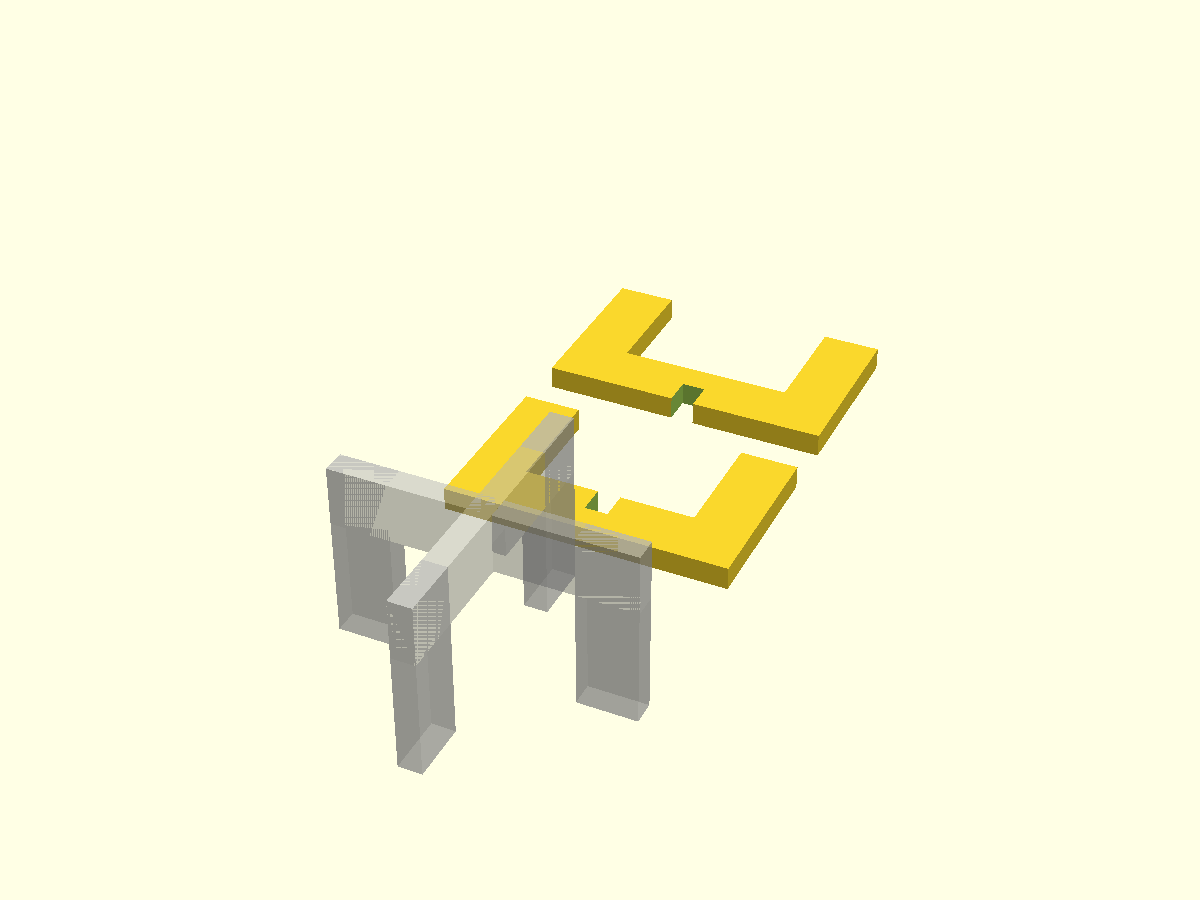
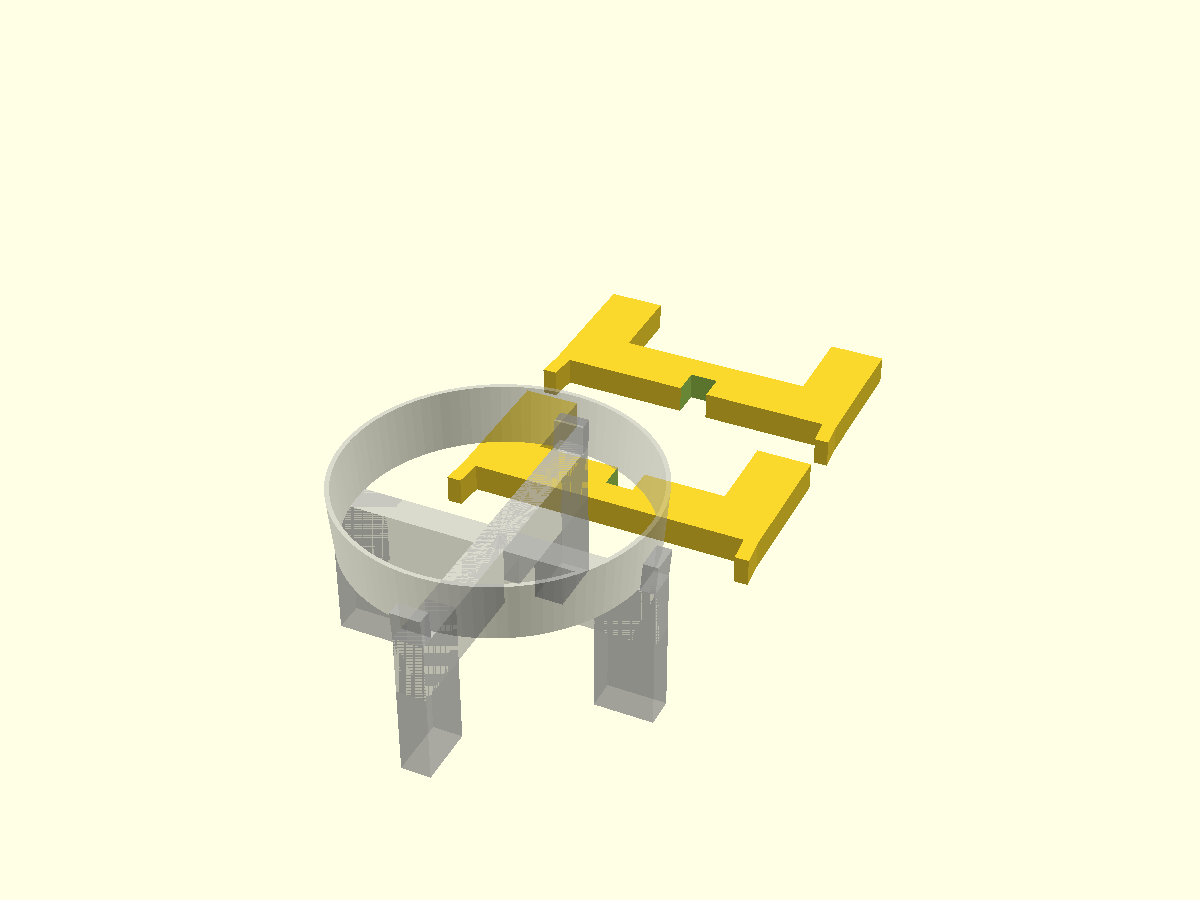
Pot (#5)
* docs(sync): map pot-stand support walls

* feat(frames): add pot supports to pot stand

Support walls rise from each bar end above the leg and lean outward
about the pot rim line, so a pot that widens toward the top rests
flush against them. The bar now extends one support width per side,
making the pot diameter the inner width between the walls. A
preview-only ghost pot shows how the angle cradles the pot.

* docs(memory): note stand-up orientation trap

* docs(memory): rewrite stale memory entries

Three entries described code that has since changed: the skadis
lattice parameter and default, the removed is_front() face test, and
a regression probe in the deleted .handoff directory. All remaining
entries were verified against the current drawings and kept.

Changed region(s): [[0.2467, 0.3111, 0.74, 0.84], [0.3392, 0.84, 0.37, 0.8711]]

diff --git a/docs/memory/INDEX.md b/docs/memory/INDEX.md
@@ -5,15 +5,15 @@
 | OpenSCAD drawing library project initialized | decision | high | openscad, 3d-printing, project-setup |  | archive/2026-08-07-openscad-library.md |
 | KISS principle for all solutions | decision | high | kiss, simplicity, architecture, adr |  | archive/2026-08-07-kiss-principle.md |
 | OpenSCAD identifiers cannot use hyphens | warning | high | openscad, syntax, identifiers |  | archive/2026-08-07-openscad-identifiers.md |
-| Skadis generator lattice pattern decision | decision | medium | openscad, skadis, lattice, 3d-printing, parametrization |  | archive/2026-08-29-skadis-lattice-web.md |
+| Skadis generator rib lattice: lattice_width, on by default | decision | medium | openscad, skadis, lattice, 3d-printing |  | archive/2026-09-26-skadis-lattice-width.md |
 | Fast preview workflow: $preview guard + FULL=1 render mode | pattern | high | openscad, preview, render-scripts, performance |  | archive/2026-08-29-fast-preview-workflow.md |
 | BOSL2 adopted for skadis-generator chamfers | decision | high | openscad, bosl2, chamfer, offset-sweep, performance |  | archive/2026-08-29-bosl2-chamfer-refactor.md |
 | chamfer_cylinder_mask only correct at 45 degrees | warning | medium | openscad, bosl2, chamfer, masks |  | archive/2026-08-29-chamfer-cylinder-mask-45deg.md |
 | Stackable box nesting fit: insert inset = recess inset - fit | pattern | medium | openscad, stacking, vase-mode, parametrization |  | archive/2026-09-03-stackable-box-nesting-fit.md |
-| Per-point wall displacement terms must be face-gated | warning | medium | openscad, displacement, skin, cgal, debugging |  | archive/2026-09-03-face-gated-displacement.md |
+| Displacement terms gate by face via paired point lists | pattern | medium | openscad, displacement, skin, normals |  | archive/2026-09-26-face-gated-displacement-pairs.md |
 | Vase-mode slide-in C-channel and resting ledge geometry | pattern | medium | openscad, vase-mode, c-channel, skin, parametrization |  | archive/2026-09-03-vase-mode-c-channel-ledge.md |
 | stackable-box lid is a snug lip-wrap cap; pocket auto-centering | decision | high | openscad, vase-mode, lid, pocket, parametrization |  | archive/2026-09-03-snug-lid-cap.md |
-| stackable-box corner notch: unit(p) is not the surface normal | warning | medium | openscad, displacement, normals, skin, stacking |  | archive/2026-09-04-corner-notch-unit-p-normal.md |
+| Deriving displacement normals from unit(p) cuts corner notches | warning | medium | openscad, displacement, normals, skin |  | archive/2026-09-26-paired-point-normals.md |
 | OpenSCAD Customizer annotation rules (2021.01 parser) | pattern | high | openscad, customizer, annotations, parametrization |  | archive/2026-09-08-customizer-description-rules.md |
 | Lofted constant-wall horns via skin 3D profiles | pattern | medium | openscad, bosl2, skin, loft, walls, parametrization |  | archive/2026-09-09-skin-3d-profiles-loft.md |
 | Preview ghosts of mating parts are preferred | preference | medium | openscad, preview, ghost, usability, parametrization |  | archive/2026-09-09-preview-ghost-parts.md |
@@ -23,3 +23,4 @@
 | Module braces, region booleans, chained offsets vs CGAL | warning | high | openscad, bosl2, modules, regions, cgal, offsets |  | archive/2026-09-13-openscad-cgal-footguns.md |
 | Continuous container cavity shrinks seat-band wall | decision | medium | openscad, container, cavity, neck, parametrization |  | archive/2026-09-15-continuous-cavity.md |
 | Builtin 45-degree chamfer cuts via exact-hypotenuse prisms | pattern | medium | openscad, chamfer, csg, print-quality |  | archive/2026-09-26-builtin-chamfer-cut.md |
+| Stand-up transforms: flat y=0 spine edge becomes the assembled top | pattern | medium | openscad, transforms, orientation, ghost, preview |  | archive/2026-09-26-stand-up-transform-orientation.md |

diff --git a/CHANGELOG.md b/CHANGELOG.md
@@ -1,5 +1,35 @@
 # Changelog
 
+## [0.10.1] - 2026-09-26
+
+- **why:** Keep the memory system truthful: three entries described code that has since changed
+- **model:** openrouter/z-ai/glm-5.3-flash
+- **tags:** memory, documentation, maintenance
+
+### Changed
+
+- Rewrote the skadis lattice entry: the web width parameter is now `lattice_width` and the lattice is on by default (`enable_lattice = true`), so the old "solid board default" and `Web_Lattice_Beam_Width` claims were false
+- Rewrote the face-gating entry: the `is_front(p)` test no longer exists; face gating now uses face-specific `[point, normal]` point lists
+- Rewrote the corner-notch entry: the referenced `.handoff/` regression probe no longer exists
+- The other 19 entries were verified against the current drawings and kept unchanged
+
+## [0.10.0] - 2026-09-26
+
+- **why:** Keep pots from sliding off the stand and show how the support angle cradles flared pots
+- **model:** openrouter/z-ai/glm-5.3-flash
+- **tags:** frames, pot-stand, pot-support, ghost-pot
+
+### Added
+
+- `support_height`, `support_angle`, and `support_width` parameters in a new `[Pot support]` Customizer group
+- `support_wall()` in `drawings/frames/pot-stand.scad`: a full-thickness wall on each bar end above the leg, leaning outward about the pot rim line so a pot with matching wall slope rests flush on it; both slot variants and the assembled ghost get all four walls
+- `ghost_pot()` preview aid: translucent flared pot resting in the support walls, rising `ghost_pot_extra` (20 mm) above them; excluded from renders and STL exports
+
+### Changed
+
+- `bar_length` is now `pot_diameter + 2 * support_width`, so the pot diameter is the inner width between the support walls
+- Regenerated `previews/frames/pot-stand.png`
+
 ## [0.9.0] - 2026-09-26
 
 - **why:** Show how the two trivet halves fit together and make the drawing easy to tune in the Customizer

diff --git a/docs/memory/archive/2026-09-26-skadis-lattice-width.md b/docs/memory/archive/2026-09-26-skadis-lattice-width.md
@@ -1,0 +1,19 @@
+---
+topic: "Skadis generator rib lattice: lattice_width, on by default"
+importance: medium
+category: decision
+tags: [openscad, skadis, lattice, 3d-printing]
+created: 2026-09-26T23:52:49Z
+model: z-ai/glm-5.3-flash
+---
+
+The skadis-generator board is cut to a rib lattice by default
+(`enable_lattice = true`): border, X spokes, vertical rails, and a
+material ring around every slot; `false` gives a solid board.
+Rectangular ribs beat hexagonal cells because continuous ribs resist
+out-of-plane bending from hung tools. The uniform web width is
+`lattice_width` (the old `Web_Lattice_Beam_Width` name is gone). The
+top-face bevel `lattice_chamfer_depth` erodes the web sideways, so
+asserts keep it below `lattice_width / 2` minus a minimum top-face
+sliver; thinner slivers make CGAL fail intermittently and do not
+print.

diff --git a/docs/memory/archive/2026-09-26-paired-point-normals.md b/docs/memory/archive/2026-09-26-paired-point-normals.md
@@ -1,0 +1,18 @@
+---
+topic: "Deriving displacement normals from unit(p) cuts corner notches"
+importance: medium
+category: warning
+tags: [openscad, displacement, normals, skin]
+created: 2026-09-26T23:52:49Z
+model: z-ai/glm-5.3-flash
+---
+
+In stackable-box.scad, deriving displacement normals from point
+position (unit(p), direction from the origin) cut a ~0.22 mm notch
+where the corner arcs meet the front wall: stacking inset stepped at
+top/bottom and the pattern wave creased vertically. Fix: pair every
+point with its true outward normal at construction time ([point,
+normal] lists; arcs radial from their own centers, walls
+axis-aligned, pocket [0, -1]) and expose the pairs via outline_raw(z)
+for testing. Never derive normals from origin distance on off-center
+rounded rects.

diff --git a/docs/memory/archive/2026-09-26-face-gated-displacement-pairs.md b/docs/memory/archive/2026-09-26-face-gated-displacement-pairs.md
@@ -1,0 +1,17 @@
+---
+topic: "Displacement terms gate by face via paired point lists"
+importance: medium
+category: pattern
+tags: [openscad, displacement, skin, normals]
+created: 2026-09-26T23:52:49Z
+model: z-ai/glm-5.3-flash
+---
+
+In displacement-based skin() walls, per-point terms must apply to one
+face only, or a feature (e.g. the plaque pocket) silently cuts other
+walls too. stackable-box.scad gates by construction: it builds
+face-specific [point, normal] point lists (front_l/front_r with normal
+[0, -1]) instead of a shared face-test function. Debug trap: STL
+probes on flat wall regions can miss geometry because the CGAL export
+merges coplanar slices, leaving vertices only at fold boundaries —
+probe those boundaries or use echo() on the outline function instead.

diff --git a/CODEBASE.md b/CODEBASE.md
@@ -13,7 +13,7 @@
 │   │   ├── stackable-box.scad     # vase-mode stackable box, lid, slide-in plaque
 │   │   └── travel-porage-container.scad  # vase-mode solid: porridge-box cylinder with side spoon pocket and wrap-around lid
 │   └── frames/                    # category: frames
-│       ├── pot-stand.scad         # two-piece slot-together pot stand (trivet)
+│       ├── pot-stand.scad         # two-piece slot-together pot stand with leaning pot-support walls
 │       ├── rod-cage.scad          # interlocking rod-based enclosure frame
 │       └── skadis-generator.scad  # Skadis pegboard generator plate
 ├── previews/                      # Generated preview PNGs (mirrors drawings/)

diff --git a/docs/memory/archive/2026-09-26-stand-up-transform-orientation.md b/docs/memory/archive/2026-09-26-stand-up-transform-orientation.md
@@ -1,0 +1,16 @@
+---
+topic: "Stand-up transforms: flat y=0 spine edge becomes the assembled top"
+importance: medium
+category: pattern
+tags: [openscad, transforms, orientation, ghost, preview]
+created: 2026-09-26T23:41:57Z
+model: z-ai/glm-5.3-flash
+---
+
+In pot-stand.scad the ghost assembly uses rotate([90,0,0]) plus a
+translate and a final mirror([0,0,1]), so assembled +z maps to flat
+−y: the bar's spine edge (flat y=0) is the rail TOP, and flat +y
+toward the feet points DOWN. Parts meant to rise above the assembled
+stand (pot-support walls) must extend in flat −y from y=0; extending
+in flat +y silently hangs them below the rail along the legs. Check
+the mirror direction before placing anything on a stood-up part.
